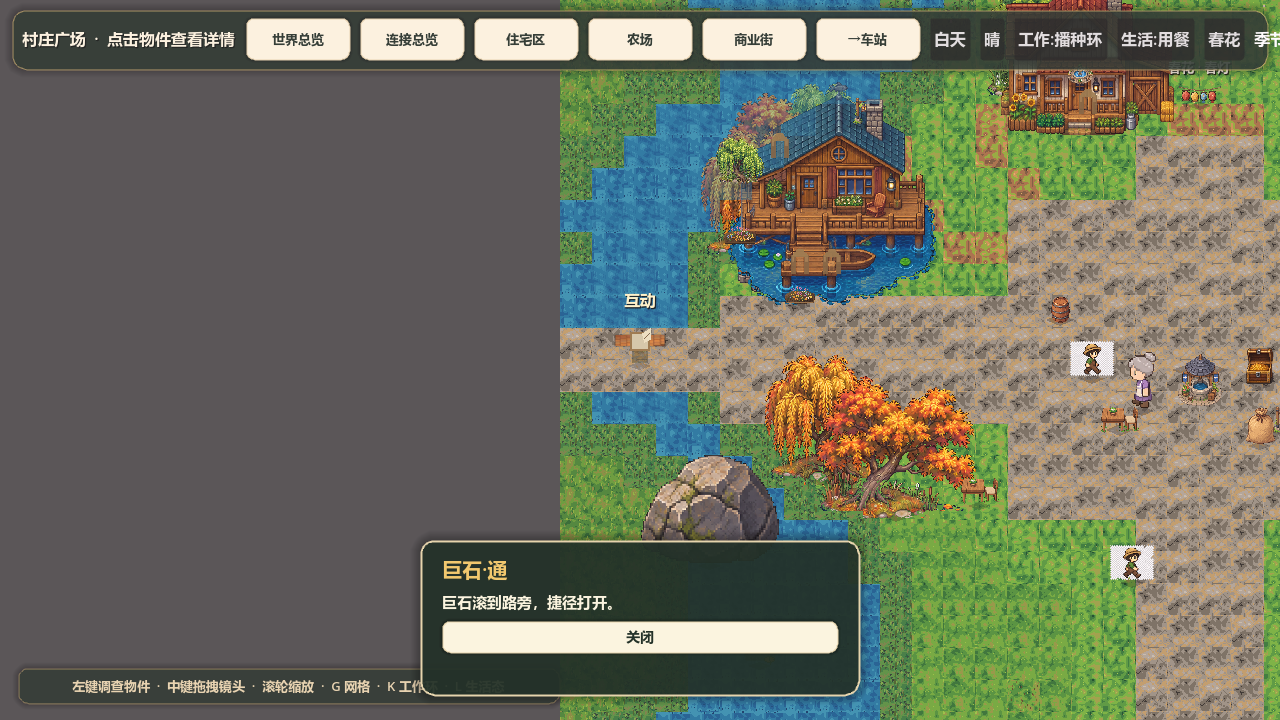
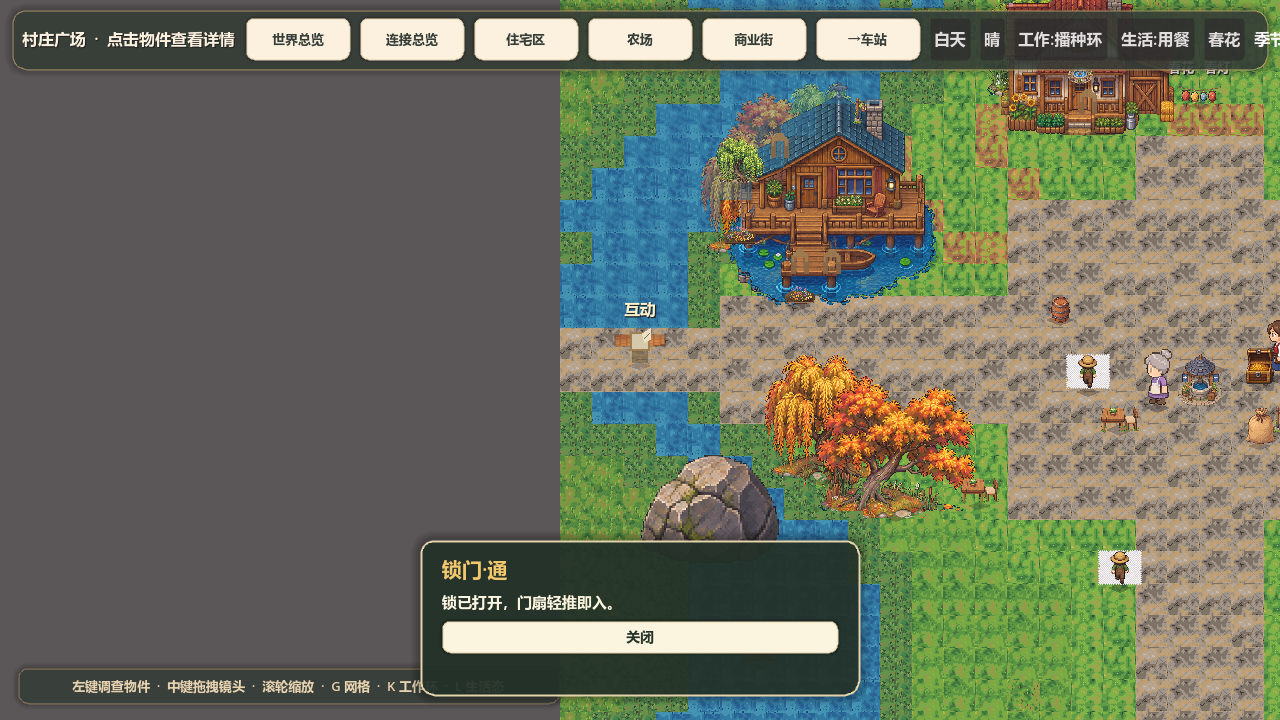
Fix C60 door unlock evidence shot and add C61 tree chest screenshot.
EOF

diff --git a/dream/docs/GOAL_G8_C60_C61_FULL_EVIDENCE.md b/dream/docs/GOAL_G8_C60_C61_FULL_EVIDENCE.md
@@ -10,18 +10,16 @@
 | fallen_log | `leaf_fall`×4 | ok |
 | boulder | `bench_dust`×4 | ok |
 
-Shot: `docs/evidence/g8_c60_unlock_fx_door.png`
+Shot: `docs/evidence/g8_c60_unlock_fx_door.png`（InfoPanel「锁门·通」）
 
 ## C61 HiddenChests `mcp_open` — all 5 sites
 
-| site_id | host | frames | playing |
-| --- | --- | --- | --- |
-| well | village_square | 4 | true |
-| tree_behind | forest_deep | 4 | true |
-| waterfall | waterfall | 4 | true |
-| cave | hill_farm | 4 | true |
-| island | lake | 4 | true |
-
-Prior well shot: `g8_c61_well_chest_open.png`
+| site_id | host | frames | playing | shot |
+| --- | --- | --- | --- | --- |
+| well | village_square | 4 | true | `g8_c61_well_chest_open.png` |
+| tree_behind | forest_deep | 4 | true | `g8_c61_tree_chest_open.png` |
+| waterfall | waterfall | 4 | true | MCP return only |
+| cave | hill_farm | 4 | true | MCP return only |
+| island | lake | 4 | true | MCP return only |
 
 User §7 still required.

diff --git a/dream/docs/GOAL_TEAM_SIGNOFF.md b/dream/docs/GOAL_TEAM_SIGNOFF.md
@@ -22,9 +22,8 @@
 | Interior OpenFX | C01 dresser + **C02 chest_lid** MCP sync + pause-on-end + smoke | `mcp_play_open_fx`；held frame=3；`g8_c02_chest_lid_held.png` |
 | C58 FX | well/crate/tree/bird oneshots + pause-on-end + MCP live ×4 | smoke held_ok；`g8_c58_*_live.png` |
 | C59 Breakables | stake/weed sprites + `mcp_clear` + **clear FX** | `GOAL_G8_C59_BREAKABLES_EVIDENCE.md`；`GOAL_G8_C59_C61_FX_EVIDENCE.md` |
-| C61 Hidden chests | coin_chest + lid + `mcp_open` | `GOAL_G8_C59_C61_FX_EVIDENCE.md`；well open shot |
+| C61 Hidden chests | coin_chest + lid + `mcp_open` **5/5 sites** | `GOAL_G8_C60_C61_FULL_EVIDENCE.md`；well + tree/waterfall/cave/island MCP |
 | C60 Gates | locked_door unlock soften + fallen log + **unlock FX×3** | `mcp_unlock`；`GOAL_G8_C60_C61_FULL_EVIDENCE.md` |
-| C61 Hidden chests | coin_chest + lid + `mcp_open` **5/5 sites** | well/tree/waterfall/cave/island |
 
 ## Automated gates (must stay GREEN)
 
